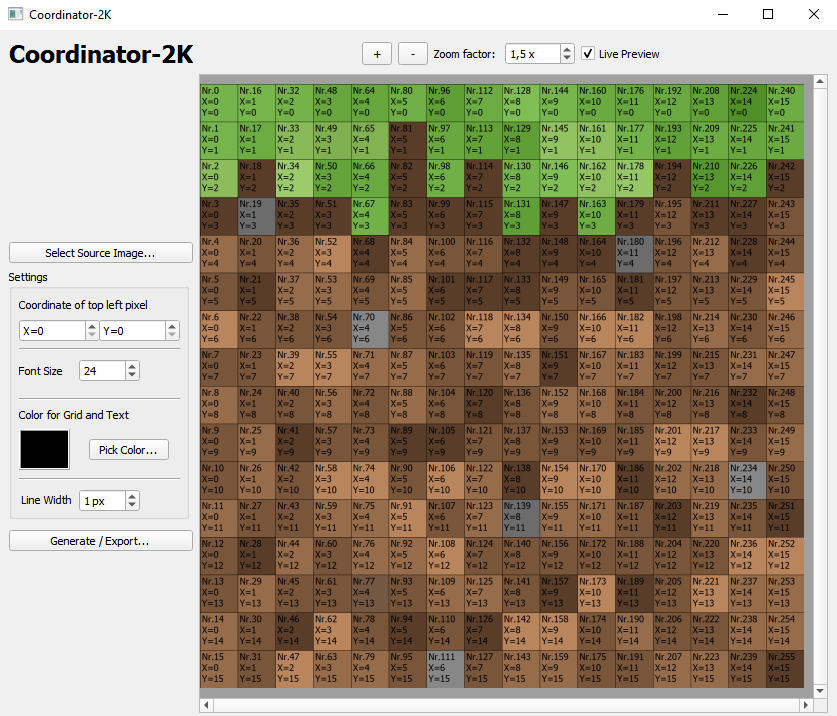
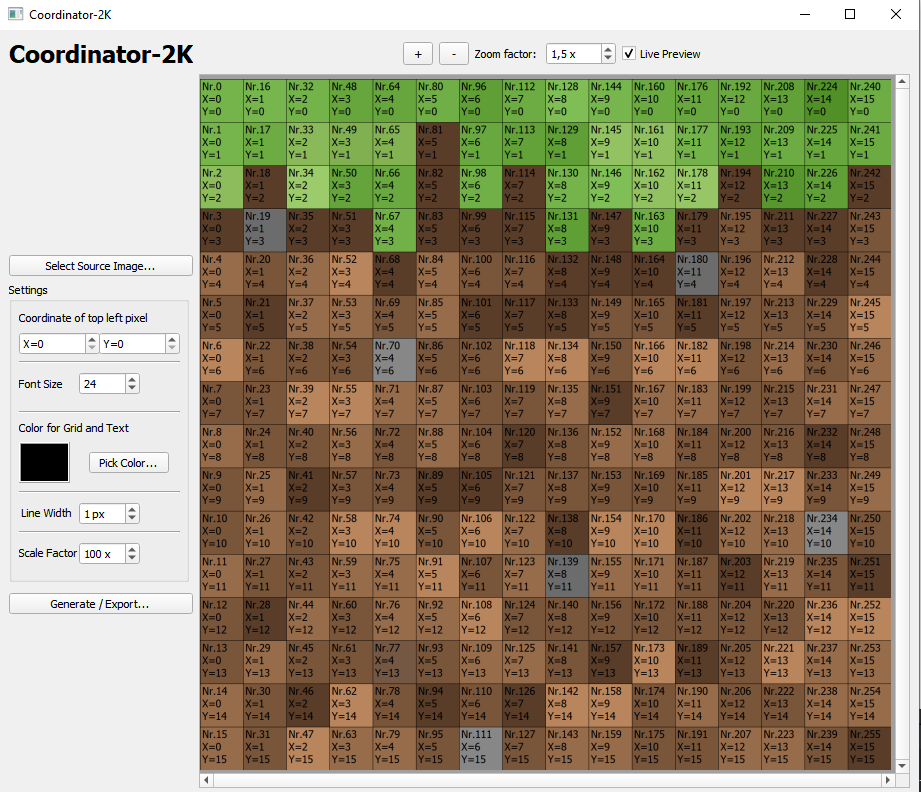
Added adjustable scale factor

diff --git a/src/Coordinator-2K/mainwindow.cpp b/src/Coordinator-2K/mainwindow.cpp
@@ -160,13 +160,18 @@ void MainWindow::on_pushButtonExport_clicked()
     ui->labelDone->setText("Exported to " + saveFileName);
 }
 
+bool MainWindow::_shouldDisplay(void)
+{
+     return _livePreview && (nullptr != _workMap);
+}
+
 /**
  * @brief Zooming in and out
  */
 void MainWindow::on_pushButtonZoomIn_clicked()
 {
     _dispZoomFactor *= _dispZoomAdvanceFactor;
-    if (_livePreview) {
+    if (_shouldDisplay()) {
         _displayWorkMap();
     }
 }
@@ -174,7 +179,7 @@ void MainWindow::on_pushButtonZoomIn_clicked()
 void MainWindow::on_pushButtonZoomOut_clicked()
 {
     _dispZoomFactor /= _dispZoomAdvanceFactor;
-    if (_livePreview) {
+    if (_shouldDisplay()) {
         _displayWorkMap();
     }
 }
@@ -187,7 +192,7 @@ void MainWindow::on_zoomAdvanceSpinbox_valueChanged(double arg1)
 void MainWindow::on_spinBoxOffsetX_valueChanged(int arg1)
 {
     _offsetTopLeftX = arg1;
-    if (_livePreview) {
+    if (_shouldDisplay()) {
         _loadCleanScaled();
         _drawGrid();
         _displayWorkMap();
@@ -197,7 +202,7 @@ void MainWindow::on_spinBoxOffsetX_valueChanged(int arg1)
 void MainWindow::on_spinBoxOffsetY_valueChanged(int arg1)
 {
     _offsetTopLeftY = arg1;
-    if (_livePreview) {
+    if (_shouldDisplay()) {
         _loadCleanScaled();
         _drawGrid();
         _displayWorkMap();
@@ -207,7 +212,7 @@ void MainWindow::on_spinBoxOffsetY_valueChanged(int arg1)
 void MainWindow::on_spinBoxFontSize_valueChanged(int arg1)
 {
     _fontSize = arg1;
-    if (_livePreview) {
+    if (_shouldDisplay()) {
         _loadCleanScaled();
         _drawGrid();
         _displayWorkMap();
@@ -217,7 +222,7 @@ void MainWindow::on_spinBoxFontSize_valueChanged(int arg1)
 void MainWindow::on_checkBoxLivePreview_stateChanged(int arg1)
 {
     _livePreview = arg1;
-    if (_livePreview && (nullptr != _workMap)) {
+    if (_shouldDisplay()) {
         _loadCleanScaled();
         _drawGrid();
         _displayWorkMap();
@@ -234,7 +239,7 @@ void MainWindow::on_pushButtonColor_clicked()
         ui->labelColor->setAutoFillBackground(true);
         ui->labelColor->setPalette(p);
 
-        if (_livePreview) {
+        if (_shouldDisplay()) {
             _loadCleanScaled();
             _drawGrid();
             _displayWorkMap();
@@ -244,7 +249,17 @@ void MainWindow::on_pushButtonColor_clicked()
 
 void MainWindow::on_spinBoxLineWidth_valueChanged(int)
 {
-    if (_livePreview) {
+    if (_shouldDisplay()) {
+        _loadCleanScaled();
+        _drawGrid();
+        _displayWorkMap();
+    }
+}
+
+void MainWindow::on_spinBoxScaleFactor_valueChanged(int arg1)
+{
+    _scaleFactor = arg1;
+    if (_shouldDisplay()) {
         _loadCleanScaled();
         _drawGrid();
         _displayWorkMap();

diff --git a/src/Coordinator-2K/mainwindow.h b/src/Coordinator-2K/mainwindow.h
@@ -43,10 +43,13 @@ private slots:
 
     void on_spinBoxLineWidth_valueChanged(int arg1);
 
+    void on_spinBoxScaleFactor_valueChanged(int arg1);
+
 private:
     void _loadCleanScaled(void);
     void _drawGrid(void);
     void _displayWorkMap(void);
+    bool _shouldDisplay(void);
 
 private:
     Ui::MainWindow *ui;

diff --git a/README.md b/README.md
@@ -14,6 +14,8 @@ Application screenshot:
 
 ✔Zoomable & Scrollable Preview Window
 
+✔Adjustable Scale factor (how many final pixels per original pixel)
+
 ✔Adjustable x-y-offset
 
 ✔Adjustable font size
